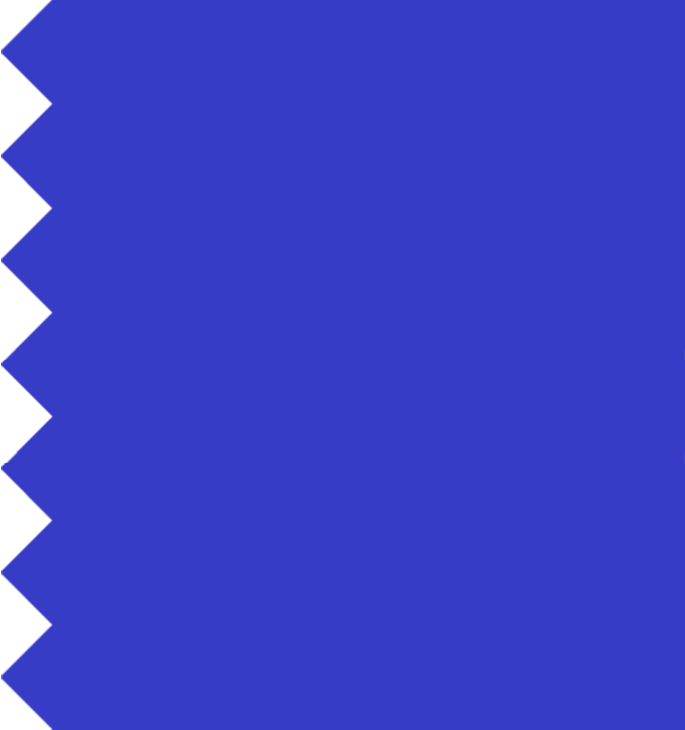
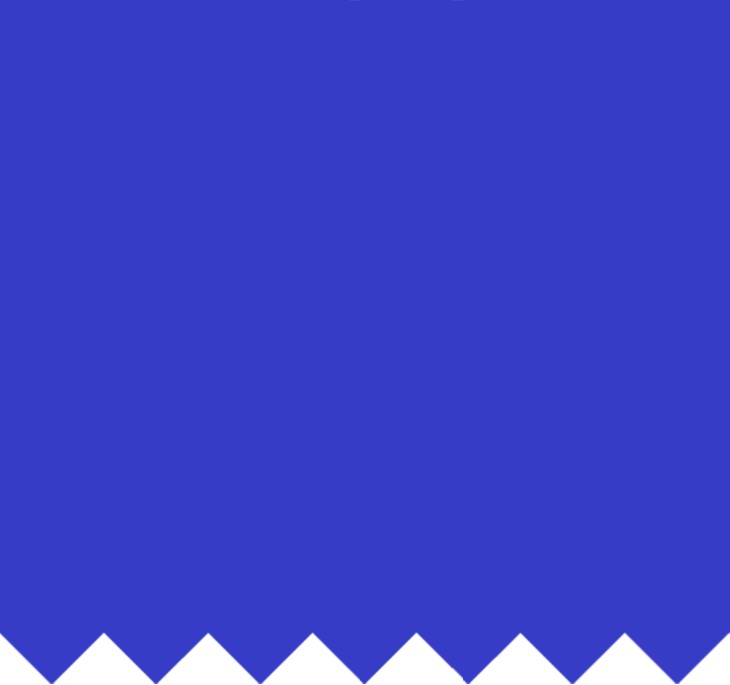
new format

Changed region(s): [[0.0613, 0.9197, 1.0, 1.0], [0.0, 0.0, 0.092, 0.9504], [0.0307, 0.9504, 0.0613, 0.981]]

diff --git a/scss/about.scss b/scss/about.scss
@@ -259,179 +259,53 @@ body {
                          overflow-y: auto;
                          background-color: beige;
                          background-image: url(../images/sidecover.png);
-                         background-repeat: repeat-y;
+                         background-repeat: repeat-x;
                          background-size: 50%;
-                         background-position: 150% 5%;
+                         background-position: 50% -80%;
                          background-attachment: local;
                          border: 2px solid black;
-                         width: 100%; height: 6cm;
-                         
-                         
-                         &::-webkit-scrollbar {
-                              width: 8px;
-                         }
-                    
-                         &::-webkit-scrollbar-track {
-                              background: rgb(0, 0, 0);
-                         }
-                    
-                         &::-webkit-scrollbar-thumb {
-                              background: #c0c0c0;
-                              border: 1px inset rgb(71, 71, 71);
-                         }
+                         width: 100%;
+                         height: 6cm;
+                         padding: 5px 10px;
                     }
 
-                    &__page {
-                         padding: 5px 8px;
-                    }
-
-                    &__manualbar {
-                         display: grid;
-                         grid-template-columns: 73% auto;
-                         grid-template-rows: 1fr 1fr;
-                         grid-template-areas: 
-                              "manual-title manual-nav"
-                              "manual-subtitle manual-subtitle"
-                         ;
-                         row-gap: 5px;
-                         padding: 5px 8px;
-                         margin-bottom: 15px;
-                    }
-
-                    &__manualtitle {
-                         grid-area: manual-title;
-                         font-family: "Archivo", sc.$standard-font;
-                         font-size: 0.85rem;
+                    &__title {
+                         display: flex;
+                         align-items: center;
+                         font-family: "ZalandoSans", sc.$standard-font;
+                         font-size: 1.3rem;
                          font-weight: 900;
-                         font-stretch: expanded;
+                         text-transform: capitalize;
                          color: black;
                          border: 2px solid black;
-                         position: relative;
                          height: fit-content;
-                         padding: 3px 5px;
-                    
+                         padding: 0px 8px;
+                         margin-bottom: 0.8cm;
+
                          &::before {
                               content: "";
                               display: inline-block;
-                              background-color: black;
+                              background-color: currentColor;
                               border-radius: 360px;
-                              width: 10px;
-                              height: 10px;
+                              width: 15px;
+                              height: 15px;
                               margin-right: 3px;
                          }
                     }
 
-                    &__manualsubtitle {
-                         grid-area: manual-subtitle;
-                         font-family: sc.$fancy-font;
-                         font-size: 0.75rem;
-                         font-weight: bolder;
+                    &__title-section {
+                         display: flex;
+                         align-items: center;
+                         font-family: "ZalandoSans", sc.$standard-font;
+                         font-size: 0.8rem;
+                         font-weight: 600;
+                         text-transform: capitalize;
                          background-color: black;
-                         height: fit-content;
-                         padding: 4px 5px;
+                         padding: 3px 5px;
 
                          &::before {
-                              content: '\2605 '
-                         }
-                    }
-
-                    &__manualnav {
-                         cursor: pointer;
-                         grid-area: manual-nav;
-                         align-self: center;
-                         justify-self: flex-end;
-                         image-rendering: pixelated;
-                         animation: blink-effect 3s step-start infinite;
-
-                         &--prev {
-                              transform: scaleX(-1);
-                         }
-
-                         @keyframes blink-effect {
-                              0%, 100% { filter: hue-rotate(67deg) saturate(2000%); }
-                              50%      { filter: hue-rotate(0deg)  saturate(100%);  }
-                         }
-                    }
-
-                    &__biography {
-                         display: grid;
-                         grid-template-columns: 1fr 1fr;
-                         grid-template-rows: 1fr;
-                         gap: 10px;
-
-                         h3 {
-                              display: flex;
-                              align-items: center;
-                              font-family: "ZalandoSans", sc.$standard-font;
-                              font-size: 0.75rem;
-                              font-weight: 600;
-                              text-align: start;
-                              text-transform: uppercase;
-                              background-color: hsl(90, 100%, 35%);
-                              border: 2px solid black;
-                              height: fit-content;
-                              padding: 4px 5px;
-                         }
-
-                         p {
-                              font-family: sc.$fancy-font;
-                              font-size: 0.75rem;
-                              font-weight: bolder;
-                              color: black;
-                              padding: 3px 5px;
-
-                              &::before {
-                                   content: "\25B6  ";
-                              }
-                         }
-                    }
-
-                    &__socials {
-                         li {
-                              display: grid;
-                              grid-template-columns: 1fr auto;
-                              grid-template-rows: 1fr;
-                              grid-template-areas:
-                                   "socials-title socials-badges"
-                                   "socials-description socials-description"
-                              ;
-                              gap: 3px 10px;
-                              margin-block: 15px;
-                         }
-
-                         h3 {
-                              display: flex;
-                              align-items: center;
-                              grid-area: socials-title;
-                              font-family: "ZalandoSans", sc.$standard-font;
-                              font-size: 0.85rem;
-                              font-weight: 600;
-                              text-align: start;
-                              text-transform: uppercase;
-                              background-color: hsl(0, 100%, 35%);
-                              border: 2px solid black;
-                              height: 31px;
-                              padding: 4px 5px;
-                         }
-
-                         p {
-                              grid-area: socials-description;
-                              font-family: sc.$fancy-font;
-                              font-size: 0.8rem;
-                              font-weight: bolder;
-                              text-shadow: 1px 1px 0px beige;
-                              color: black;
-                              padding: 3px 5px;
-
-                              &::before {
-                                   content: "\25B6  ";
-                                   text-shadow: none;
-                              }
-                         }
-
-                         img {
-                              grid-area: socials-badges;
-                              image-rendering: pixelated;
+                              content: "\2605";
+                              margin-right: 3px;
                          }
                     }
                }

diff --git a/pages/about.html b/pages/about.html
@@ -112,92 +112,16 @@
                                    <div class="manual__headblocks manual__headblocks--pallete-3"></div>
                               </div>
                               <div class="manual__body">
-                                   <div class="manual__manualbar">
-                                        <h1 class="manual__manualtitle"> Biography </h1>
-                                        <h2 class="manual__manualsubtitle"> Everything About Me </h2>
-                                        <img src="images/decorations/caret.png" 
-                                             class="manual__manualnav" alt="Navigation" width="16" height="16">
+                                   <h1 class="manual__title">BIOLOGICAL</h1>
+                                   <h2 class="manual__title-section">Everything About Me</h2>
+                                   <div>
+                                        「 」
                                    </div>
-                                   <section class="manual__page">
-                                        <ul class="manual__biography">
-                                             <li class="manual__items">
-                                                  <h3>Birthday</h3>
-                                                  <p>03/15/2008</p>
-                                             </li>
-                                             <li class="manual__items">
-                                                  <h3>Gender</h3>
-                                                  <p>Male</p>
-                                             </li>
-                                             <li class="manual__items">
-                                                  <h3>Sexuality</h3>
-                                                  <p>Heteroromantic</p>
-                                             </li>
-                                             <li class="manual__items">
-                                                  <h3>Pronouns</h3>
-                                                  <p>he/him</p>
-                                             </li>
-                                             <li class="manual__items">
-                                                  <h3>Alignment</h3>
-                                                  <p>Choatic Neutral</p>
-                                             </li>
-                                        </ul>
-                                   </section>
-                                   <section class="manual__page" style="display: none">
-                                        <ul class="manual__socials">
-                                             <li class="manual__items">
-                                                  <h3>Youtube</h3>
-                                                  <p>Dead Youtube channel</p>
-                                                  <img src="images/badges/custom/youtube.png" alt="Youtube" width="88" height="31">
-                                             </li>
-                                             <li class="manual__items">
-                                                  <h3>Github</h3>
-                                                  <p>My precious codebase</p>
-                                                  <img src="images/badges/custom/github.png" alt="Github" width="88" height="31">
-                                             </li>
-                                             <li class="manual__items">
-                                                  <h3>Gamebanana</h3>
-                                                  <p>Mod upload and shit</p>
-                                                  <img src="images/badges/custom/gamebanana.png" alt="Gamebanana" width="88" height="31">
-                                             </li>
-                                             <li class="manual__items">
-                                                  <h3>Roblox</h3>
-                                                  <p>Powering Eshittification</p>
-                                                  <img src="images/badges/custom/roblox.png" alt="Roblox" width="88" height="31">
-                                             </li>
-                                             <li class="manual__items">
-                                                  <h3>Geometry Dash</h3>
-                                                  <p>Is that a reference?</p>
-                                                  <img src="images/badges/custom/gd.png" alt="Geometry Dash" width="88" height="31">
-                                             </li>
-                                        </ul>
-                                   </section>
                               </div>
                          </div>
                          <div class="foundyou">
 
                          </div>
-                         <!-- <table>
-                              <tr>
-                                   <td>Brithday</td>
-                                   <td>03/15/2008</td>
-                              </tr>
-                              <tr>
-                                   <td>Gender</td>
-                                   <td>Male</td>
-                              </tr>
-                              <tr>
-                                   <td>Pronouns</td>
-                                   <td>He/Him</td>
-                              </tr>
-                              <tr>
-                                   <td>Sexuality</td>
-                                   <td>Heteroromantic</td>
-                              </tr>
-                              <tr>
-                                   <td>Alignment</td>
-                                   <td>Chaotic Neutral</td>
-                              </tr>
-                         </table> -->
                     </section>
                     <section class="information__interests">
                          <div class="information__interests-headbar">

diff --git a/css/about.css b/css/about.css
@@ -1,1 +1,1 @@
-@font-face{font-family:"Archivo";src:url("../fonts/Archivo/Archivo.woff2") format("woff2-variations"),url("../fonts/Archivo/Archivo.woff2") format("woff2") tech("variations");font-weight:100 900;font-stretch:62% 125%;font-style:normal;font-display:swap}@font-face{font-family:"Lexend";src:url("../fonts/Lexend/Lexend.woff2") format("woff2-variations"),url("../fonts/Lexend/Lexend.woff2") format("woff2") tech("variations");font-weight:100 900;font-stretch:normal;font-style:normal;font-display:swap}@font-face{font-family:"ZalandoSans";src:url("../fonts/ZalandoSans/ZalandoSans.woff2") format("woff2-variations"),url("../fonts/ZalandoSans/ZalandoSans.woff2") format("woff2") tech("variations");font-weight:200 900;font-stretch:semi-expanded;font-style:normal;font-display:swap}@font-face{font-family:"CandyBeans";src:url("../fonts/CandyBeans/CandyBeans-Regular.woff2") format("woff2");font-weight:500;font-style:normal;font-display:swap}body{display:flex;justify-content:center;font-family:system-ui,-apple-system,BlinkMacSystemFont,"Segoe UI",Roboto,Oxygen,Ubuntu,Cantarell,"Open Sans","Helvetica Neue",sans-serif;background-image:url(../images/backgrounds/beach.avif);background-repeat:no-repeat;background-size:cover;background-attachment:fixed;background-color:#312e3d;background-blend-mode:color-burn}body #flavory-content{display:grid;grid-template-columns:auto 900px;grid-template-rows:1fr;grid-template-areas:"flavory-sidebar flavory-autointerests";gap:5px;margin-block:.5cm}body .sidebar{grid-area:flavory-sidebar}body .autointerests{display:grid;grid-template-columns:1fr 1fr;grid-template-rows:1fr;grid-area:flavory-autointerests;background-color:hsl(0,2.6315789474%,9.9019607843%);box-shadow:5px 5px 0px 0px #4f4eff;gap:15px;padding:15px}body .autointerests .information__account{display:grid;grid-template-columns:2fr 1fr;grid-template-rows:auto auto-fit;grid-template-areas:"account-profile account-profile" "account-banner account-extra";gap:5px 15px}body .autointerests .information .profile{display:flex;flex-direction:row;grid-area:account-profile;background-color:rgba(0,0,0,.5);background-image:url(../images/profile/gridlines.avif);background-position:30px -20px;background-blend-mode:color-burn;border-radius:5px;padding:10px;gap:10px}body .autointerests .information .profile__image{border-radius:5px}body .autointerests .information .profile__content{display:flex;flex-direction:column}body .autointerests .information .profile__baybayin{display:grid;grid-template-columns:1fr 1fr}body .autointerests .information .profile__baybayin-characters{font-size:1rem}body .autointerests .information .profile__title{font-family:"Archivo",system-ui,-apple-system,BlinkMacSystemFont,"Segoe UI",Roboto,Oxygen,Ubuntu,Cantarell,"Open Sans","Helvetica Neue",sans-serif;font-size:1.8rem;font-weight:900;font-stretch:expanded}body .autointerests .information .profile__description{font-family:"Trebuchet MS","Lucida Sans Unicode","Lucida Grande","Lucida Sans",Arial,sans-serif;font-style:italic;font-size:.85rem;text-wrap:pretty;width:30ch;margin-top:5px}body .autointerests .information .profile__patterns{display:flex;flex-direction:row;justify-content:flex-end;gap:5px;margin-top:auto}body .autointerests .information .profile__patterns-block{border-radius:3px;width:40px;height:20px}body .autointerests .information .profile__patterns-block--pallete-1{background-color:#4f4eff}body .autointerests .information .profile__patterns-block--pallete-2{background-color:#a3fb44}body .autointerests .information .profile__patterns-block--pallete-3{background-color:#272727}body .autointerests .information .banner{user-select:none;grid-area:account-banner;background-color:#fff;background-image:url(../images/profile/the_sky.avif);background-position:900px 300px;border-radius:5px;color:#000;position:relative;height:40px;padding:1px 3px}body .autointerests .information .banner__small{font-size:14px;position:absolute}body .autointerests .information .banner__big{font-size:25px;position:absolute;right:3px;bottom:0}body .autointerests .information .extra{display:flex;flex-direction:row;align-items:center;justify-content:center;user-select:none;grid-area:account-extra;background-color:#000;background-position:30px;background-size:80px;background-repeat:no-repeat;border-radius:5px;overflow:hidden;height:40px}body .autointerests .information .extra__centerpiece{image-rendering:pixelated}body .autointerests .information__biography{display:grid;grid-template-columns:2fr 1fr;grid-template-rows:1fr;grid-template-areas:"biography-manual biography-foundyou";column-gap:15px}body .autointerests .information .manual{grid-area:biography-manual;margin-top:.5cm}body .autointerests .information .manual__headbar{display:flex;flex-direction:row;gap:3px;margin-bottom:5px}body .autointerests .information .manual__headtitle{font-family:"Archivo",system-ui,-apple-system,BlinkMacSystemFont,"Segoe UI",Roboto,Oxygen,Ubuntu,Cantarell,"Open Sans","Helvetica Neue",sans-serif;font-size:1.1rem;font-weight:900;font-stretch:expanded;border:2px solid #000;padding:5px 10px;width:100%;background:hsl(90,100%,35%);background:-webkit-linear-gradient(165deg, hsl(90, 100%, 35%) 0%, hsl(91, 68%, 25%) 95%);background:-moz-linear-gradient(165deg, hsl(90, 100%, 35%) 0%, hsl(91, 68%, 25%) 95%);background:linear-gradient(165deg, hsl(90, 100%, 35%) 0%, hsl(91, 68%, 25%) 95%)}body .autointerests .information .manual__headblocks{border:2px solid #000;width:17.5px;height:auto}body .autointerests .information .manual__headblocks--pallete-1{background-color:hsl(240,95%,62%)}body .autointerests .information .manual__headblocks--pallete-2{background-color:hsl(89,96%,45%)}body .autointerests .information .manual__headblocks--pallete-3{background-color:hsl(0,0%,15%)}body .autointerests .information .manual__body{overflow-y:auto;background-color:beige;background-image:url(../images/sidecover.png);background-repeat:repeat-y;background-size:50%;background-position:150% 5%;background-attachment:local;border:2px solid #000;width:100%;height:6cm}body .autointerests .information .manual__body::-webkit-scrollbar{width:8px}body .autointerests .information .manual__body::-webkit-scrollbar-track{background:#000}body .autointerests .information .manual__body::-webkit-scrollbar-thumb{background:silver;border:1px inset #474747}body .autointerests .information .manual__page{padding:5px 8px}body .autointerests .information .manual__manualbar{display:grid;grid-template-columns:73% auto;grid-template-rows:1fr 1fr;grid-template-areas:"manual-title manual-nav" "manual-subtitle manual-subtitle";row-gap:5px;padding:5px 8px;margin-bottom:15px}body .autointerests .information .manual__manualtitle{grid-area:manual-title;font-family:"Archivo",system-ui,-apple-system,BlinkMacSystemFont,"Segoe UI",Roboto,Oxygen,Ubuntu,Cantarell,"Open Sans","Helvetica Neue",sans-serif;font-size:.85rem;font-weight:900;font-stretch:expanded;color:#000;border:2px solid #000;position:relative;height:fit-content;padding:3px 5px}body .autointerests .information .manual__manualtitle::before{content:"";display:inline-block;background-color:#000;border-radius:360px;width:10px;height:10px;margin-right:3px}body .autointerests .information .manual__manualsubtitle{grid-area:manual-subtitle;font-family:"Trebuchet MS","Lucida Sans Unicode","Lucida Grande","Lucida Sans",Arial,sans-serif;font-size:.75rem;font-weight:bolder;background-color:#000;height:fit-content;padding:4px 5px}body .autointerests .information .manual__manualsubtitle::before{content:"★"}body .autointerests .information .manual__manualnav{cursor:pointer;grid-area:manual-nav;align-self:center;justify-self:flex-end;image-rendering:pixelated;animation:blink-effect 3s step-start infinite}body .autointerests .information .manual__manualnav--prev{transform:scaleX(-1)}@keyframes blink-effect{0%,100%{filter:hue-rotate(67deg) saturate(2000%)}50%{filter:hue-rotate(0deg) saturate(100%)}}body .autointerests .information .manual__biography{display:grid;grid-template-columns:1fr 1fr;grid-template-rows:1fr;gap:10px}body .autointerests .information .manual__biography h3{display:flex;align-items:center;font-family:"ZalandoSans",system-ui,-apple-system,BlinkMacSystemFont,"Segoe UI",Roboto,Oxygen,Ubuntu,Cantarell,"Open Sans","Helvetica Neue",sans-serif;font-size:.75rem;font-weight:600;text-align:start;text-transform:uppercase;background-color:hsl(90,100%,35%);border:2px solid #000;height:fit-content;padding:4px 5px}body .autointerests .information .manual__biography p{font-family:"Trebuchet MS","Lucida Sans Unicode","Lucida Grande","Lucida Sans",Arial,sans-serif;font-size:.75rem;font-weight:bolder;color:#000;padding:3px 5px}body .autointerests .information .manual__biography p::before{content:"▶ "}body .autointerests .information .manual__socials li{display:grid;grid-template-columns:1fr auto;grid-template-rows:1fr;grid-template-areas:"socials-title socials-badges" "socials-description socials-description";gap:3px 10px;margin-block:15px}body .autointerests .information .manual__socials h3{display:flex;align-items:center;grid-area:socials-title;font-family:"ZalandoSans",system-ui,-apple-system,BlinkMacSystemFont,"Segoe UI",Roboto,Oxygen,Ubuntu,Cantarell,"Open Sans","Helvetica Neue",sans-serif;font-size:.85rem;font-weight:600;text-align:start;text-transform:uppercase;background-color:rgb(178.5,0,0);border:2px solid #000;height:31px;padding:4px 5px}body .autointerests .information .manual__socials p{grid-area:socials-description;font-family:"Trebuchet MS","Lucida Sans Unicode","Lucida Grande","Lucida Sans",Arial,sans-serif;font-size:.8rem;font-weight:bolder;text-shadow:1px 1px 0px beige;color:#000;padding:3px 5px}body .autointerests .information .manual__socials p::before{content:"▶ ";text-shadow:none}body .autointerests .information .manual__socials img{grid-area:socials-badges;image-rendering:pixelated}body .autointerests .information .foundyou{grid-area:biography-foundyou}body .autointerests .information__interests{margin-top:.5cm}body .autointerests .information__interests-headbar{display:flex;flex-direction:row;gap:3px;margin-bottom:5px}body .autointerests .information__interests-headtitle{font-family:"Archivo",system-ui,-apple-system,BlinkMacSystemFont,"Segoe UI",Roboto,Oxygen,Ubuntu,Cantarell,"Open Sans","Helvetica Neue",sans-serif;font-size:1.1rem;font-weight:900;font-stretch:expanded;border:2px solid #000;padding:5px 10px;width:100%;background:hsl(240,100%,65%);background:-webkit-linear-gradient(165deg, hsl(240, 100%, 65%) 0%, hsl(240, 65%, 38%) 95%);background:-moz-linear-gradient(165deg, hsl(240, 100%, 65%) 0%, hsl(240, 65%, 38%) 95%);background:linear-gradient(165deg, hsl(240, 100%, 65%) 0%, hsl(240, 65%, 38%) 95%)}body .autointerests .information__interests-headblocks{border:2px solid #000;width:17.5px;height:auto}body .autointerests .information__interests-headblocks--pallete-1{background-color:hsl(240,98%,62%)}body .autointerests .information__interests-headblocks--pallete-2{background-color:hsl(89,96%,45%)}body .autointerests .information__interests-headblocks--pallete-3{background-color:hsl(0,0%,15%)}body .autointerests .information__interests-table{table-layout:fixed;border-collapse:collapse;width:100%}body .autointerests .information__interests-sections{display:grid;grid-template-columns:1fr 2fr;grid-template-rows:1fr;column-gap:5px;margin-block:3px}body .autointerests .information__interests-title{display:flex;flex-direction:column;justify-content:flex-end;font-family:"Trebuchet MS","Lucida Sans Unicode","Lucida Grande","Lucida Sans",Arial,sans-serif;font-size:1.15rem;font-weight:bolder;border:2px solid hsl(253,67%,10%);border-top-left-radius:5px;border-bottom-left-radius:5px;padding:3px 8px;background:hsl(240,65%,38%);background:-webkit-linear-gradient(180deg, hsl(240, 65%, 38%) 1%, hsl(240, 100%, 62%) 4%, hsl(240, 100%, 62%) 5%, hsl(240, 65%, 38%) 10%, hsl(240, 65%, 38%) 30%, hsl(240, 65%, 34%) 55%, hsl(240, 65%, 45%) 85%, hsl(240, 65%, 25%) 95%);background:-moz-linear-gradient(180deg, hsl(240, 65%, 38%) 1%, hsl(240, 100%, 62%) 4%, hsl(240, 100%, 62%) 5%, hsl(240, 65%, 38%) 10%, hsl(240, 65%, 38%) 30%, hsl(240, 65%, 34%) 55%, hsl(240, 65%, 45%) 85%, hsl(240, 65%, 25%) 95%);background:linear-gradient(180deg, hsl(240, 65%, 38%) 1%, hsl(240, 100%, 62%) 4%, hsl(240, 100%, 62%) 5%, hsl(240, 65%, 38%) 10%, hsl(240, 65%, 38%) 30%, hsl(240, 65%, 34%) 55%, hsl(240, 65%, 45%) 85%, hsl(240, 65%, 25%) 95%)}body .autointerests .information__interests-baybayin{font-size:.58rem}body .autointerests .information__interests-name{font-style:italic}body .autointerests .information__interests-list{font-family:"CandyBeans",system-ui,-apple-system,BlinkMacSystemFont,"Segoe UI",Roboto,Oxygen,Ubuntu,Cantarell,"Open Sans","Helvetica Neue",sans-serif;font-size:.85rem;background-color:hsl(255,5%,17%);border:2px solid #000}body .autointerests .information__interests-body{display:block;overflow-y:auto;height:1.7cm;padding:5px 8px}body .autointerests .information__interests-body::-webkit-scrollbar{width:8px}body .autointerests .information__interests-body::-webkit-scrollbar-track{background:rgba(0,0,0,0)}body .autointerests .information__interests-body::-webkit-scrollbar-thumb{background:silver;border:1px inset #474747}body .autointerests .description h1{font-family:"Archivo",system-ui,-apple-system,BlinkMacSystemFont,"Segoe UI",Roboto,Oxygen,Ubuntu,Cantarell,"Open Sans","Helvetica Neue",sans-serif;font-size:1.6rem;font-weight:900;font-stretch:expanded;background-color:hsl(0,2.6315789474%,4.9019607843%);border-radius:5px;padding:10px 15px;width:100%}body .autointerests .description p{font-family:"Trebuchet MS","Lucida Sans Unicode","Lucida Grande","Lucida Sans",Arial,sans-serif;font-size:.85rem;text-align:justify;text-wrap:pretty;line-height:1.4;padding-inline:10px;margin-block:10px}/*# sourceMappingURL=about.css.map */
+@font-face{font-family:"Archivo";src:url("../fonts/Archivo/Archivo.woff2") format("woff2-variations"),url("../fonts/Archivo/Archivo.woff2") format("woff2") tech("variations");font-weight:100 900;font-stretch:62% 125%;font-style:normal;font-display:swap}@font-face{font-family:"Lexend";src:url("../fonts/Lexend/Lexend.woff2") format("woff2-variations"),url("../fonts/Lexend/Lexend.woff2") format("woff2") tech("variations");font-weight:100 900;font-stretch:normal;font-style:normal;font-display:swap}@font-face{font-family:"ZalandoSans";src:url("../fonts/ZalandoSans/ZalandoSans.woff2") format("woff2-variations"),url("../fonts/ZalandoSans/ZalandoSans.woff2") format("woff2") tech("variations");font-weight:200 900;font-stretch:semi-expanded;font-style:normal;font-display:swap}@font-face{font-family:"CandyBeans";src:url("../fonts/CandyBeans/CandyBeans-Regular.woff2") format("woff2");font-weight:500;font-style:normal;font-display:swap}body{display:flex;justify-content:center;font-family:system-ui,-apple-system,BlinkMacSystemFont,"Segoe UI",Roboto,Oxygen,Ubuntu,Cantarell,"Open Sans","Helvetica Neue",sans-serif;background-image:url(../images/backgrounds/beach.avif);background-repeat:no-repeat;background-size:cover;background-attachment:fixed;background-color:#312e3d;background-blend-mode:color-burn}body #flavory-content{display:grid;grid-template-columns:auto 900px;grid-template-rows:1fr;grid-template-areas:"flavory-sidebar flavory-autointerests";gap:5px;margin-block:.5cm}body .sidebar{grid-area:flavory-sidebar}body .autointerests{display:grid;grid-template-columns:1fr 1fr;grid-template-rows:1fr;grid-area:flavory-autointerests;background-color:hsl(0,2.6315789474%,9.9019607843%);box-shadow:5px 5px 0px 0px #4f4eff;gap:15px;padding:15px}body .autointerests .information__account{display:grid;grid-template-columns:2fr 1fr;grid-template-rows:auto auto-fit;grid-template-areas:"account-profile account-profile" "account-banner account-extra";gap:5px 15px}body .autointerests .information .profile{display:flex;flex-direction:row;grid-area:account-profile;background-color:rgba(0,0,0,.5);background-image:url(../images/profile/gridlines.avif);background-position:30px -20px;background-blend-mode:color-burn;border-radius:5px;padding:10px;gap:10px}body .autointerests .information .profile__image{border-radius:5px}body .autointerests .information .profile__content{display:flex;flex-direction:column}body .autointerests .information .profile__baybayin{display:grid;grid-template-columns:1fr 1fr}body .autointerests .information .profile__baybayin-characters{font-size:1rem}body .autointerests .information .profile__title{font-family:"Archivo",system-ui,-apple-system,BlinkMacSystemFont,"Segoe UI",Roboto,Oxygen,Ubuntu,Cantarell,"Open Sans","Helvetica Neue",sans-serif;font-size:1.8rem;font-weight:900;font-stretch:expanded}body .autointerests .information .profile__description{font-family:"Trebuchet MS","Lucida Sans Unicode","Lucida Grande","Lucida Sans",Arial,sans-serif;font-style:italic;font-size:.85rem;text-wrap:pretty;width:30ch;margin-top:5px}body .autointerests .information .profile__patterns{display:flex;flex-direction:row;justify-content:flex-end;gap:5px;margin-top:auto}body .autointerests .information .profile__patterns-block{border-radius:3px;width:40px;height:20px}body .autointerests .information .profile__patterns-block--pallete-1{background-color:#4f4eff}body .autointerests .information .profile__patterns-block--pallete-2{background-color:#a3fb44}body .autointerests .information .profile__patterns-block--pallete-3{background-color:#272727}body .autointerests .information .banner{user-select:none;grid-area:account-banner;background-color:#fff;background-image:url(../images/profile/the_sky.avif);background-position:900px 300px;border-radius:5px;color:#000;position:relative;height:40px;padding:1px 3px}body .autointerests .information .banner__small{font-size:14px;position:absolute}body .autointerests .information .banner__big{font-size:25px;position:absolute;right:3px;bottom:0}body .autointerests .information .extra{display:flex;flex-direction:row;align-items:center;justify-content:center;user-select:none;grid-area:account-extra;background-color:#000;background-position:30px;background-size:80px;background-repeat:no-repeat;border-radius:5px;overflow:hidden;height:40px}body .autointerests .information .extra__centerpiece{image-rendering:pixelated}body .autointerests .information__biography{display:grid;grid-template-columns:2fr 1fr;grid-template-rows:1fr;grid-template-areas:"biography-manual biography-foundyou";column-gap:15px}body .autointerests .information .manual{grid-area:biography-manual;margin-top:.5cm}body .autointerests .information .manual__headbar{display:flex;flex-direction:row;gap:3px;margin-bottom:5px}body .autointerests .information .manual__headtitle{font-family:"Archivo",system-ui,-apple-system,BlinkMacSystemFont,"Segoe UI",Roboto,Oxygen,Ubuntu,Cantarell,"Open Sans","Helvetica Neue",sans-serif;font-size:1.1rem;font-weight:900;font-stretch:expanded;border:2px solid #000;padding:5px 10px;width:100%;background:hsl(90,100%,35%);background:-webkit-linear-gradient(165deg, hsl(90, 100%, 35%) 0%, hsl(91, 68%, 25%) 95%);background:-moz-linear-gradient(165deg, hsl(90, 100%, 35%) 0%, hsl(91, 68%, 25%) 95%);background:linear-gradient(165deg, hsl(90, 100%, 35%) 0%, hsl(91, 68%, 25%) 95%)}body .autointerests .information .manual__headblocks{border:2px solid #000;width:17.5px;height:auto}body .autointerests .information .manual__headblocks--pallete-1{background-color:hsl(240,95%,62%)}body .autointerests .information .manual__headblocks--pallete-2{background-color:hsl(89,96%,45%)}body .autointerests .information .manual__headblocks--pallete-3{background-color:hsl(0,0%,15%)}body .autointerests .information .manual__body{overflow-y:auto;background-color:beige;background-image:url(../images/sidecover.png);background-repeat:repeat-x;background-size:50%;background-position:50% -80%;background-attachment:local;border:2px solid #000;width:100%;height:6cm;padding:5px 10px}body .autointerests .information .manual__title{display:flex;align-items:center;font-family:"ZalandoSans",system-ui,-apple-system,BlinkMacSystemFont,"Segoe UI",Roboto,Oxygen,Ubuntu,Cantarell,"Open Sans","Helvetica Neue",sans-serif;font-size:1.3rem;font-weight:900;text-transform:capitalize;color:#000;border:2px solid #000;height:fit-content;padding:0px 8px;margin-bottom:.8cm}body .autointerests .information .manual__title::before{content:"";display:inline-block;background-color:currentColor;border-radius:360px;width:15px;height:15px;margin-right:3px}body .autointerests .information .manual__title-section{display:flex;align-items:center;font-family:"ZalandoSans",system-ui,-apple-system,BlinkMacSystemFont,"Segoe UI",Roboto,Oxygen,Ubuntu,Cantarell,"Open Sans","Helvetica Neue",sans-serif;font-size:.8rem;font-weight:600;text-transform:capitalize;background-color:#000;padding:3px 5px}body .autointerests .information .manual__title-section::before{content:"★";margin-right:3px}body .autointerests .information .foundyou{grid-area:biography-foundyou}body .autointerests .information__interests{margin-top:.5cm}body .autointerests .information__interests-headbar{display:flex;flex-direction:row;gap:3px;margin-bottom:5px}body .autointerests .information__interests-headtitle{font-family:"Archivo",system-ui,-apple-system,BlinkMacSystemFont,"Segoe UI",Roboto,Oxygen,Ubuntu,Cantarell,"Open Sans","Helvetica Neue",sans-serif;font-size:1.1rem;font-weight:900;font-stretch:expanded;border:2px solid #000;padding:5px 10px;width:100%;background:hsl(240,100%,65%);background:-webkit-linear-gradient(165deg, hsl(240, 100%, 65%) 0%, hsl(240, 65%, 38%) 95%);background:-moz-linear-gradient(165deg, hsl(240, 100%, 65%) 0%, hsl(240, 65%, 38%) 95%);background:linear-gradient(165deg, hsl(240, 100%, 65%) 0%, hsl(240, 65%, 38%) 95%)}body .autointerests .information__interests-headblocks{border:2px solid #000;width:17.5px;height:auto}body .autointerests .information__interests-headblocks--pallete-1{background-color:hsl(240,98%,62%)}body .autointerests .information__interests-headblocks--pallete-2{background-color:hsl(89,96%,45%)}body .autointerests .information__interests-headblocks--pallete-3{background-color:hsl(0,0%,15%)}body .autointerests .information__interests-table{table-layout:fixed;border-collapse:collapse;width:100%}body .autointerests .information__interests-sections{display:grid;grid-template-columns:1fr 2fr;grid-template-rows:1fr;column-gap:5px;margin-block:3px}body .autointerests .information__interests-title{display:flex;flex-direction:column;justify-content:flex-end;font-family:"Trebuchet MS","Lucida Sans Unicode","Lucida Grande","Lucida Sans",Arial,sans-serif;font-size:1.15rem;font-weight:bolder;border:2px solid hsl(253,67%,10%);border-top-left-radius:5px;border-bottom-left-radius:5px;padding:3px 8px;background:hsl(240,65%,38%);background:-webkit-linear-gradient(180deg, hsl(240, 65%, 38%) 1%, hsl(240, 100%, 62%) 4%, hsl(240, 100%, 62%) 5%, hsl(240, 65%, 38%) 10%, hsl(240, 65%, 38%) 30%, hsl(240, 65%, 34%) 55%, hsl(240, 65%, 45%) 85%, hsl(240, 65%, 25%) 95%);background:-moz-linear-gradient(180deg, hsl(240, 65%, 38%) 1%, hsl(240, 100%, 62%) 4%, hsl(240, 100%, 62%) 5%, hsl(240, 65%, 38%) 10%, hsl(240, 65%, 38%) 30%, hsl(240, 65%, 34%) 55%, hsl(240, 65%, 45%) 85%, hsl(240, 65%, 25%) 95%);background:linear-gradient(180deg, hsl(240, 65%, 38%) 1%, hsl(240, 100%, 62%) 4%, hsl(240, 100%, 62%) 5%, hsl(240, 65%, 38%) 10%, hsl(240, 65%, 38%) 30%, hsl(240, 65%, 34%) 55%, hsl(240, 65%, 45%) 85%, hsl(240, 65%, 25%) 95%)}body .autointerests .information__interests-baybayin{font-size:.58rem}body .autointerests .information__interests-name{font-style:italic}body .autointerests .information__interests-list{font-family:"CandyBeans",system-ui,-apple-system,BlinkMacSystemFont,"Segoe UI",Roboto,Oxygen,Ubuntu,Cantarell,"Open Sans","Helvetica Neue",sans-serif;font-size:.85rem;background-color:hsl(255,5%,17%);border:2px solid #000}body .autointerests .information__interests-body{display:block;overflow-y:auto;height:1.7cm;padding:5px 8px}body .autointerests .information__interests-body::-webkit-scrollbar{width:8px}body .autointerests .information__interests-body::-webkit-scrollbar-track{background:rgba(0,0,0,0)}body .autointerests .information__interests-body::-webkit-scrollbar-thumb{background:silver;border:1px inset #474747}body .autointerests .description h1{font-family:"Archivo",system-ui,-apple-system,BlinkMacSystemFont,"Segoe UI",Roboto,Oxygen,Ubuntu,Cantarell,"Open Sans","Helvetica Neue",sans-serif;font-size:1.6rem;font-weight:900;font-stretch:expanded;background-color:hsl(0,2.6315789474%,4.9019607843%);border-radius:5px;padding:10px 15px;width:100%}body .autointerests .description p{font-family:"Trebuchet MS","Lucida Sans Unicode","Lucida Grande","Lucida Sans",Arial,sans-serif;font-size:.85rem;text-align:justify;text-wrap:pretty;line-height:1.4;padding-inline:10px;margin-block:10px}/*# sourceMappingURL=about.css.map */